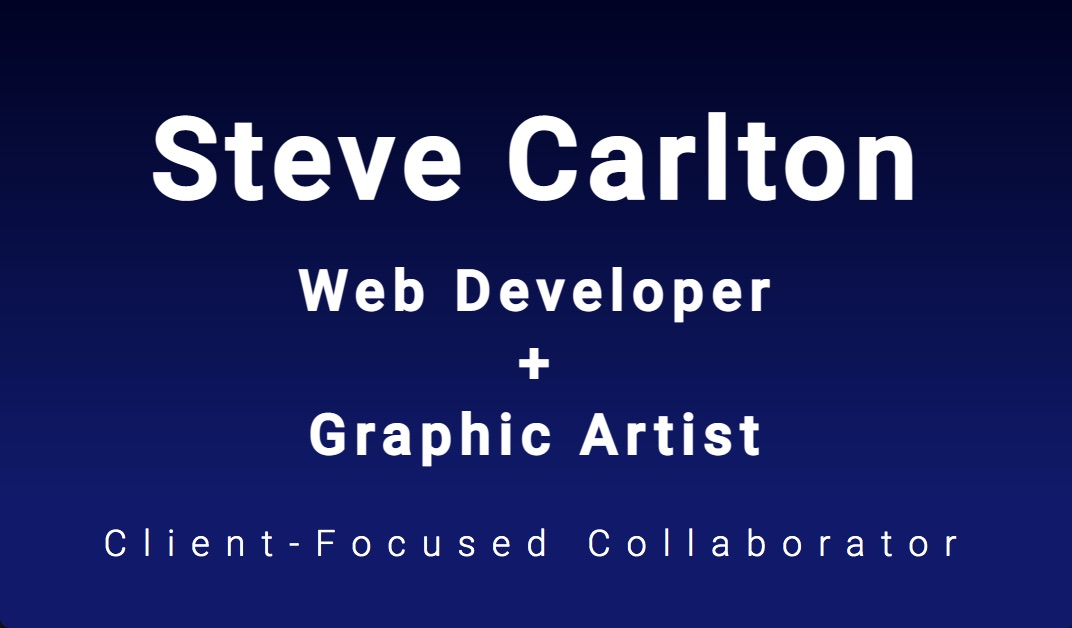
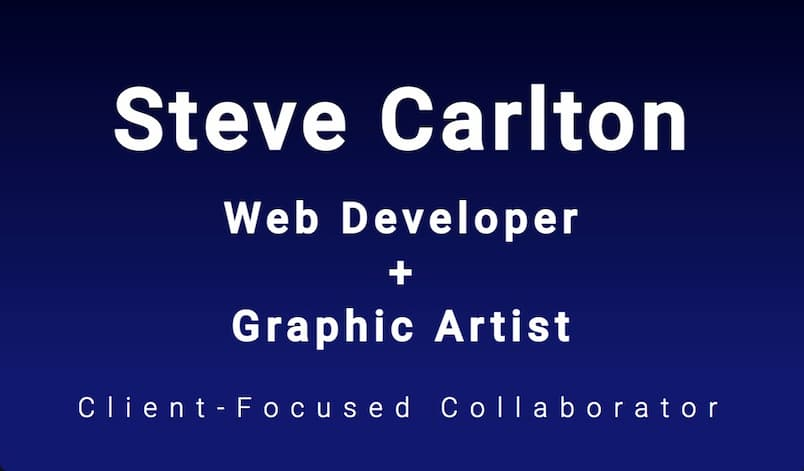
optimize remote preview image size

diff --git a/index.html b/index.html
@@ -4,8 +4,9 @@
 <head>
   <meta charset="utf-8">
   <meta name="viewport" content="width=device-width, initial-scale=1.0">
-  <!-- LINK PREVIEW -->
-  <meta property="og:image" content="https://i.imgur.com/C7zu8wX.jpg"/>
+
+  <!-- PAGE PREVIEW -->
+  <meta property="og:image" content="https://i.imgur.com/tfTJZE6.jpg"/>
   <meta property="og:description" content="Front-End Dev + Graphic Artist"/>
   <meta property="og:url" content="https://www.stevecarlton.dev/"/>
   <meta property="og:title" content="Steve Carlton"/>
@@ -17,11 +18,9 @@
   <link rel="stylesheet" href="https://use.fontawesome.com/releases/v5.15.3/css/all.css" integrity="sha384-SZXxX4whJ79/gErwcOYf+zWLeJdY/qpuqC4cAa9rOGUstPomtqpuNWT9wdPEn2fk" crossorigin="anonymous">
   <link rel="stylesheet" type="text/css" href="./styles/main.css">
 
-
 </head>
 
 <body>
-  <!-- <img style="position: absolute; margin-top: -100rem;" src="https://i.imgur.com/C7zu8wX.jpg" alt=""> -->
   <main>
     <section class="masthead">
       <header>
